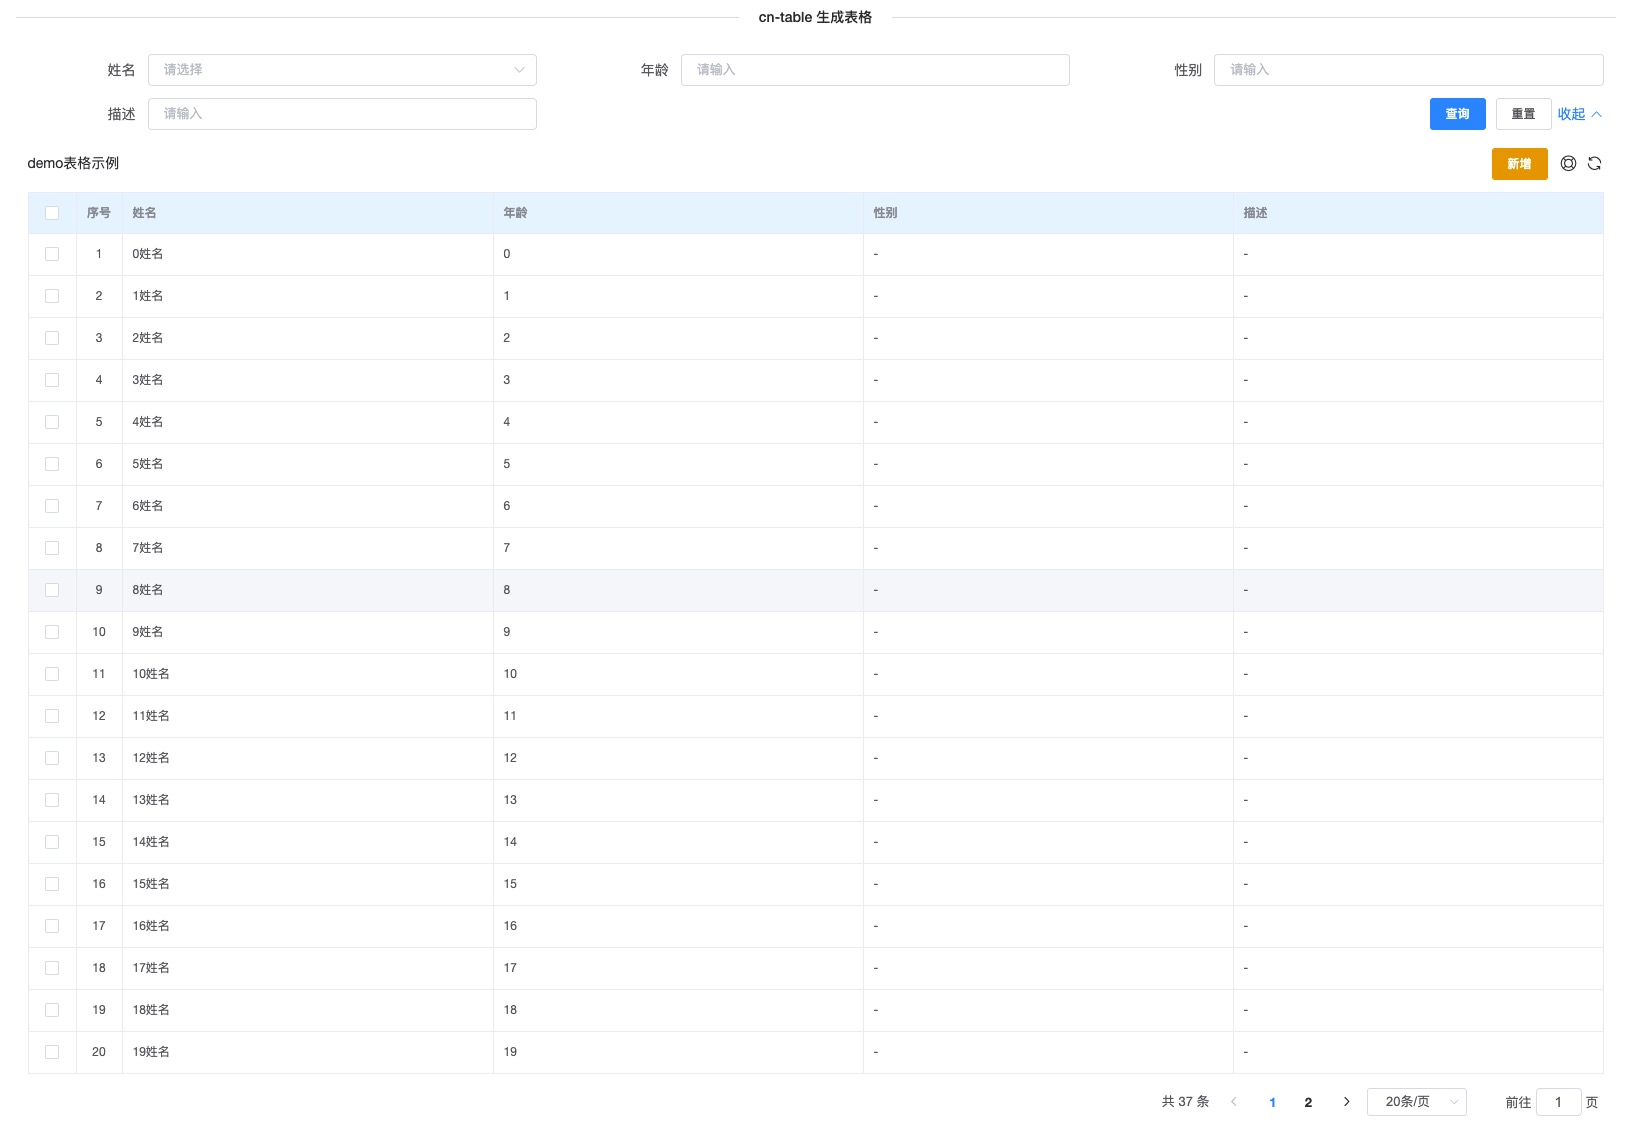
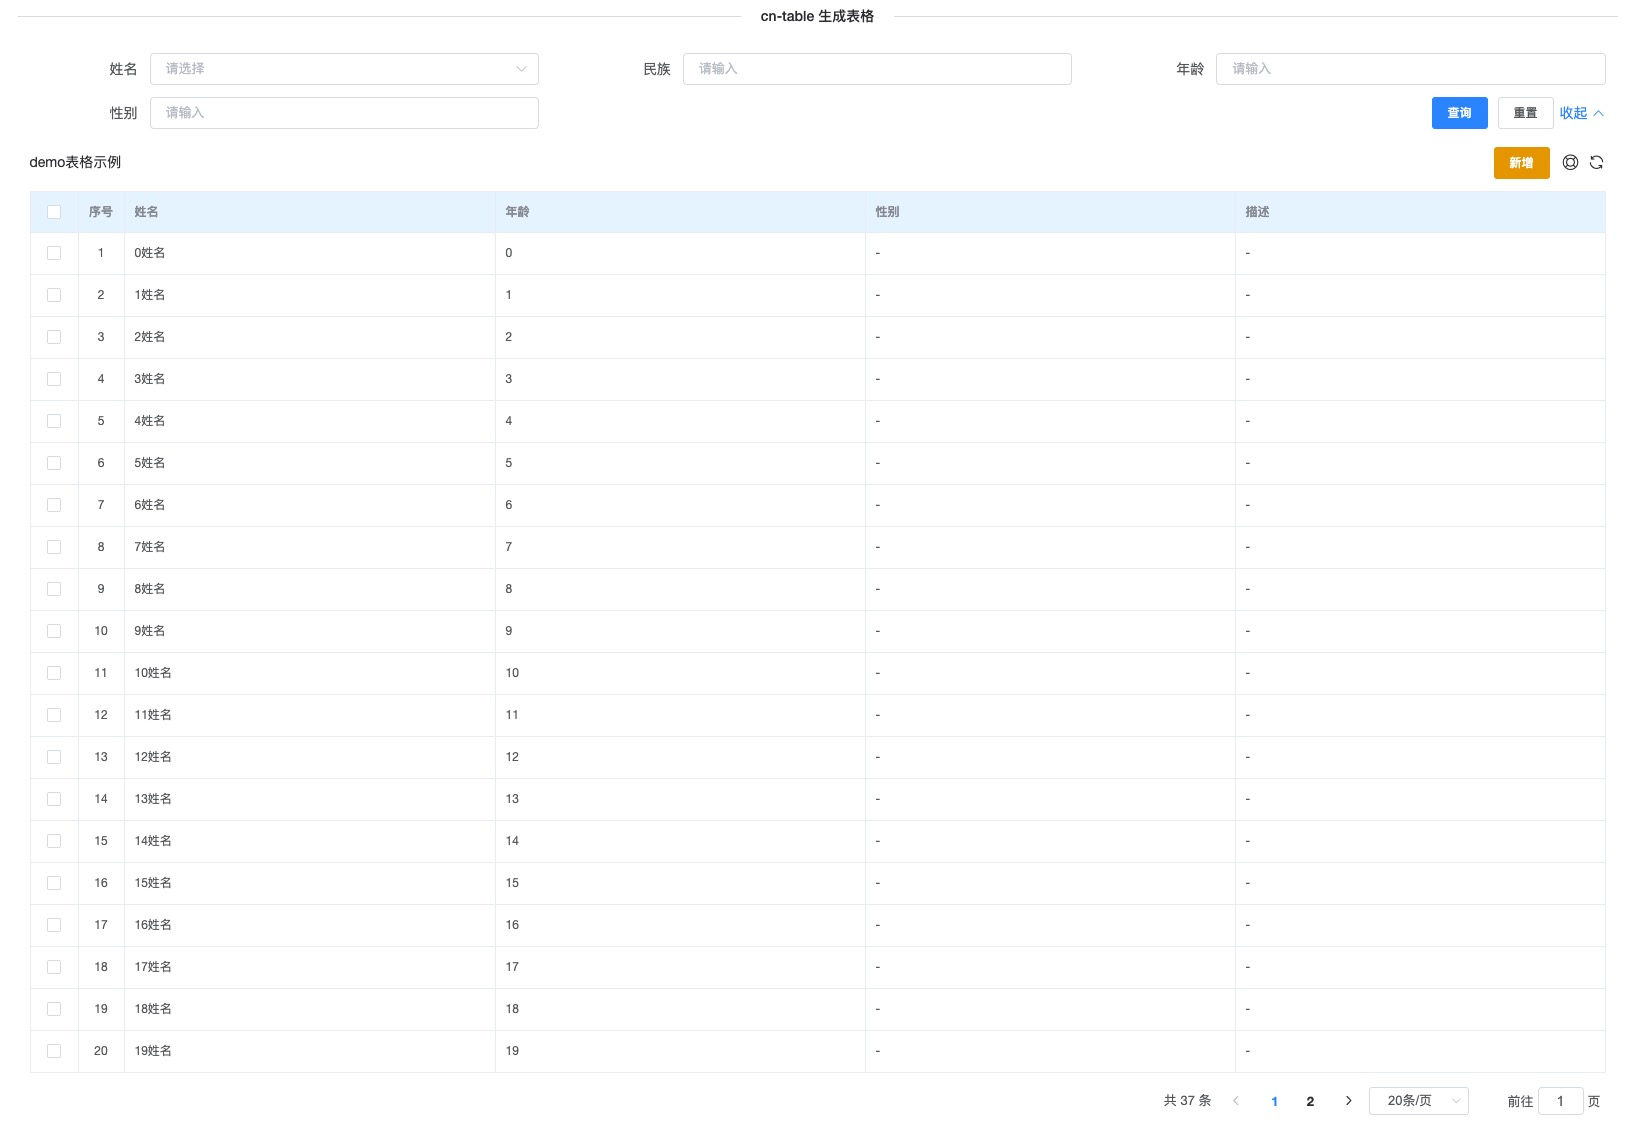
doc:  readme cn-table替换

diff --git a/examples/views/home/index.tsx b/examples/views/home/index.tsx
@@ -244,18 +244,22 @@ export default defineComponent({
         ],
       },
       {
+        title: "民族",
+        dataIndex: "ids",
+        hideInTable: true, // 在表格中隐藏
+      },
+      {
         title: "年龄",
         dataIndex: "id",
       },
       {
         title: "性别",
         dataIndex: "jump",
-        // hideInSearch: true,
       },
       {
         title: "描述",
         dataIndex: "description",
-        // hideInSearch: true,
+        hideInSearch: true, // 在搜索条件中隐藏
       },
     ];
     const fetchData = async (data: any) => {
